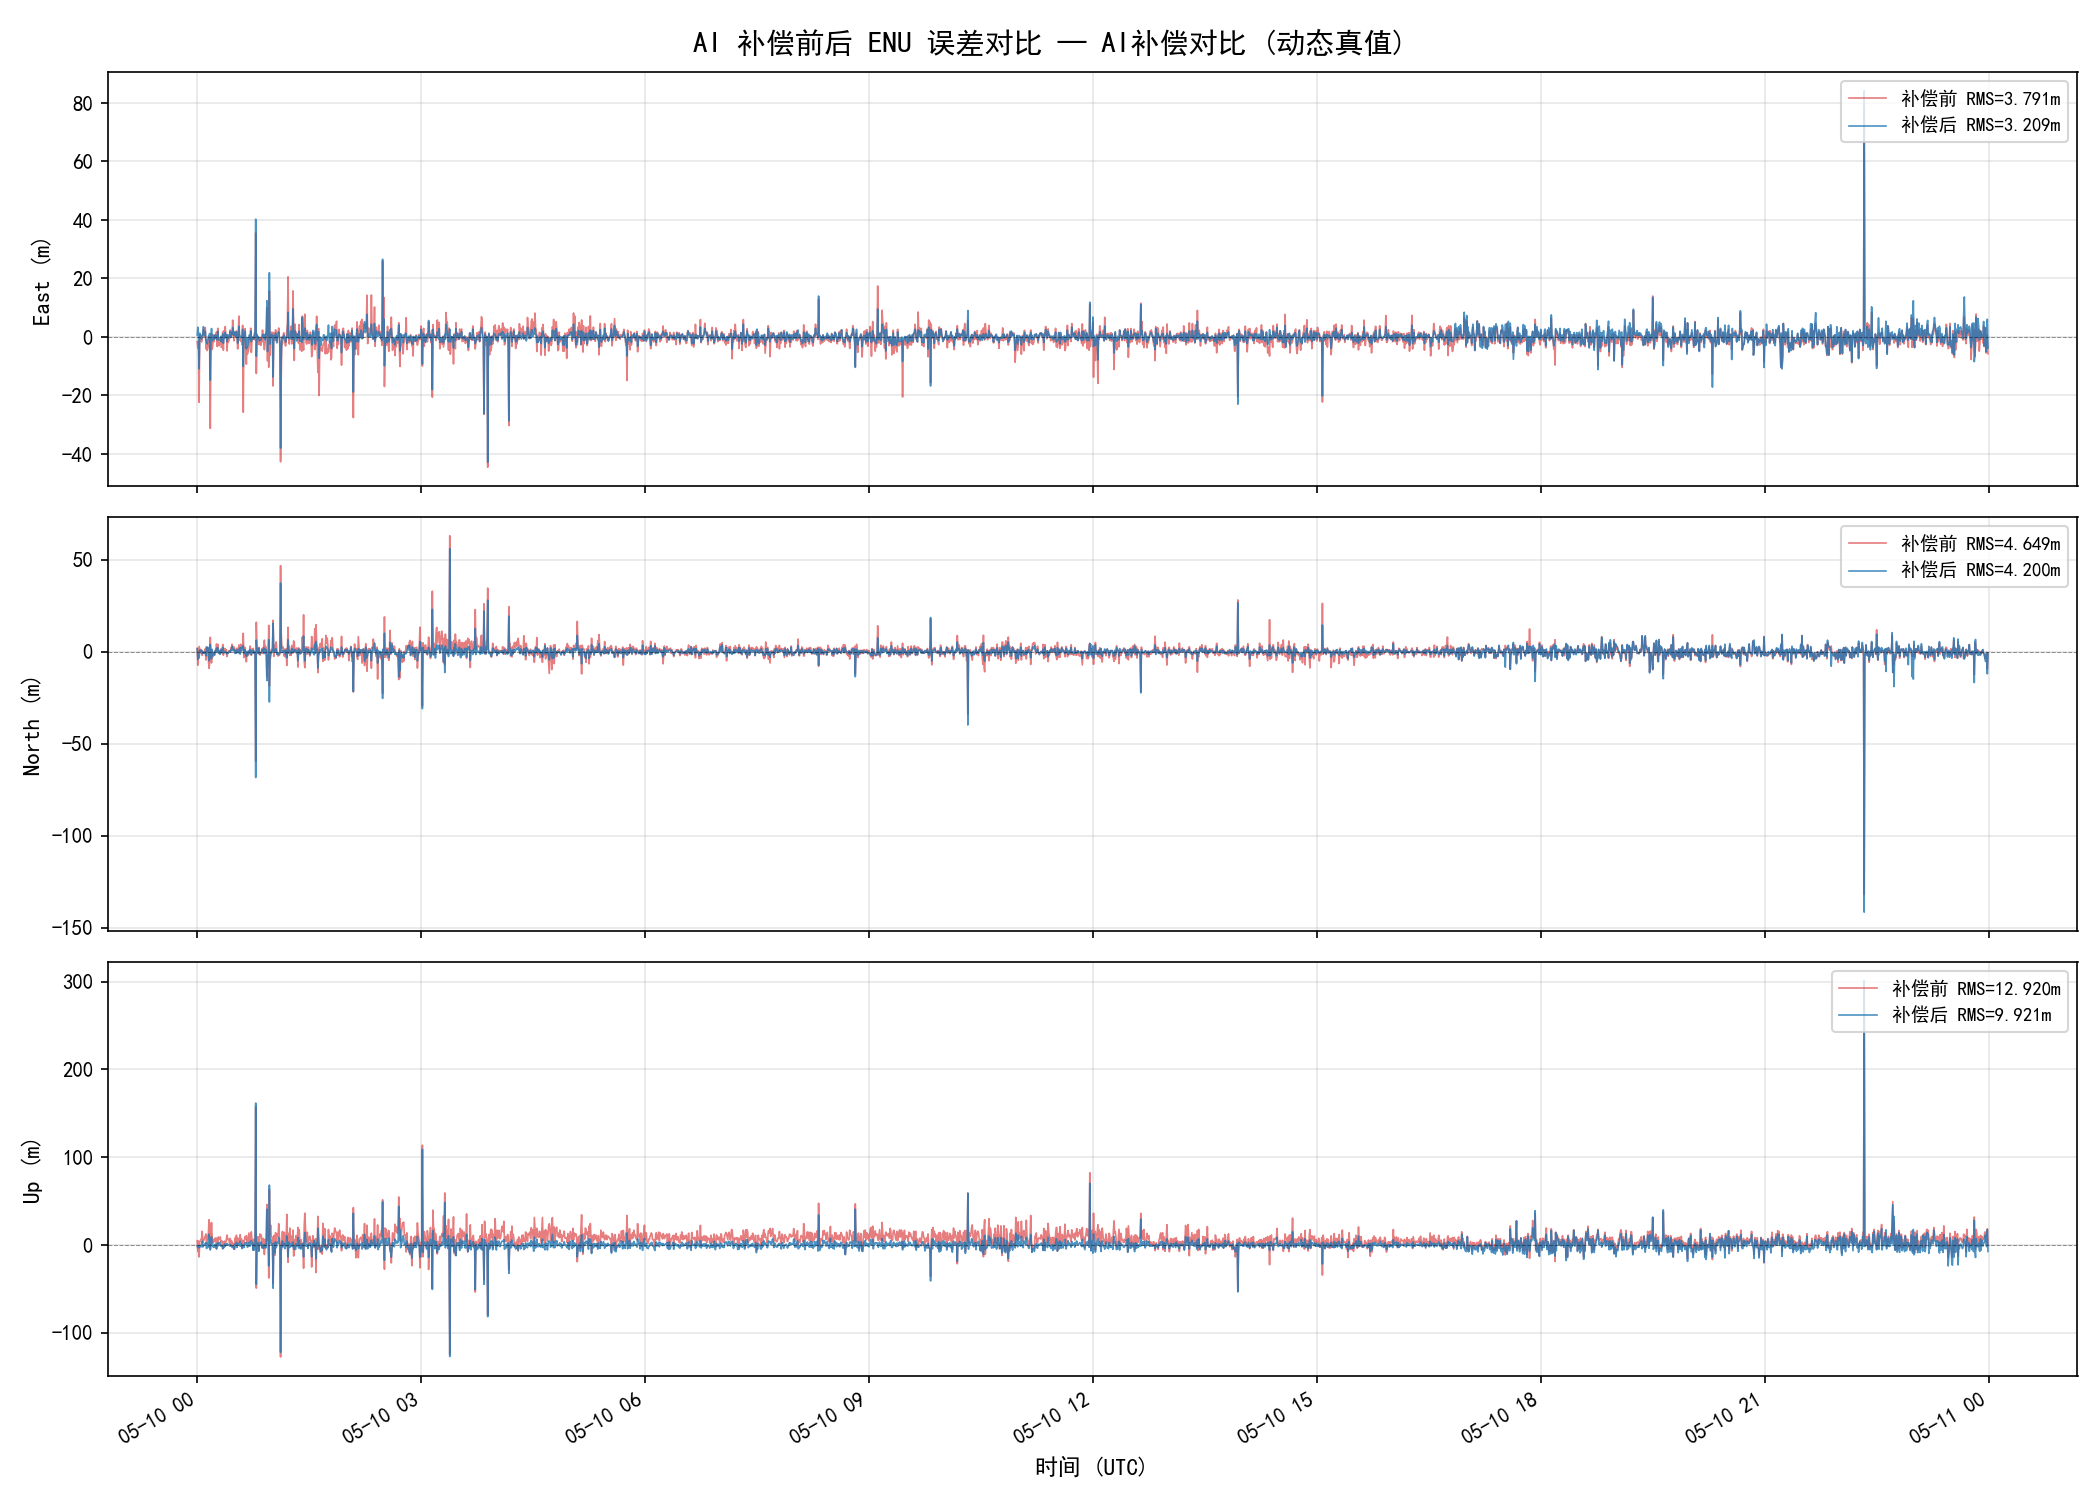
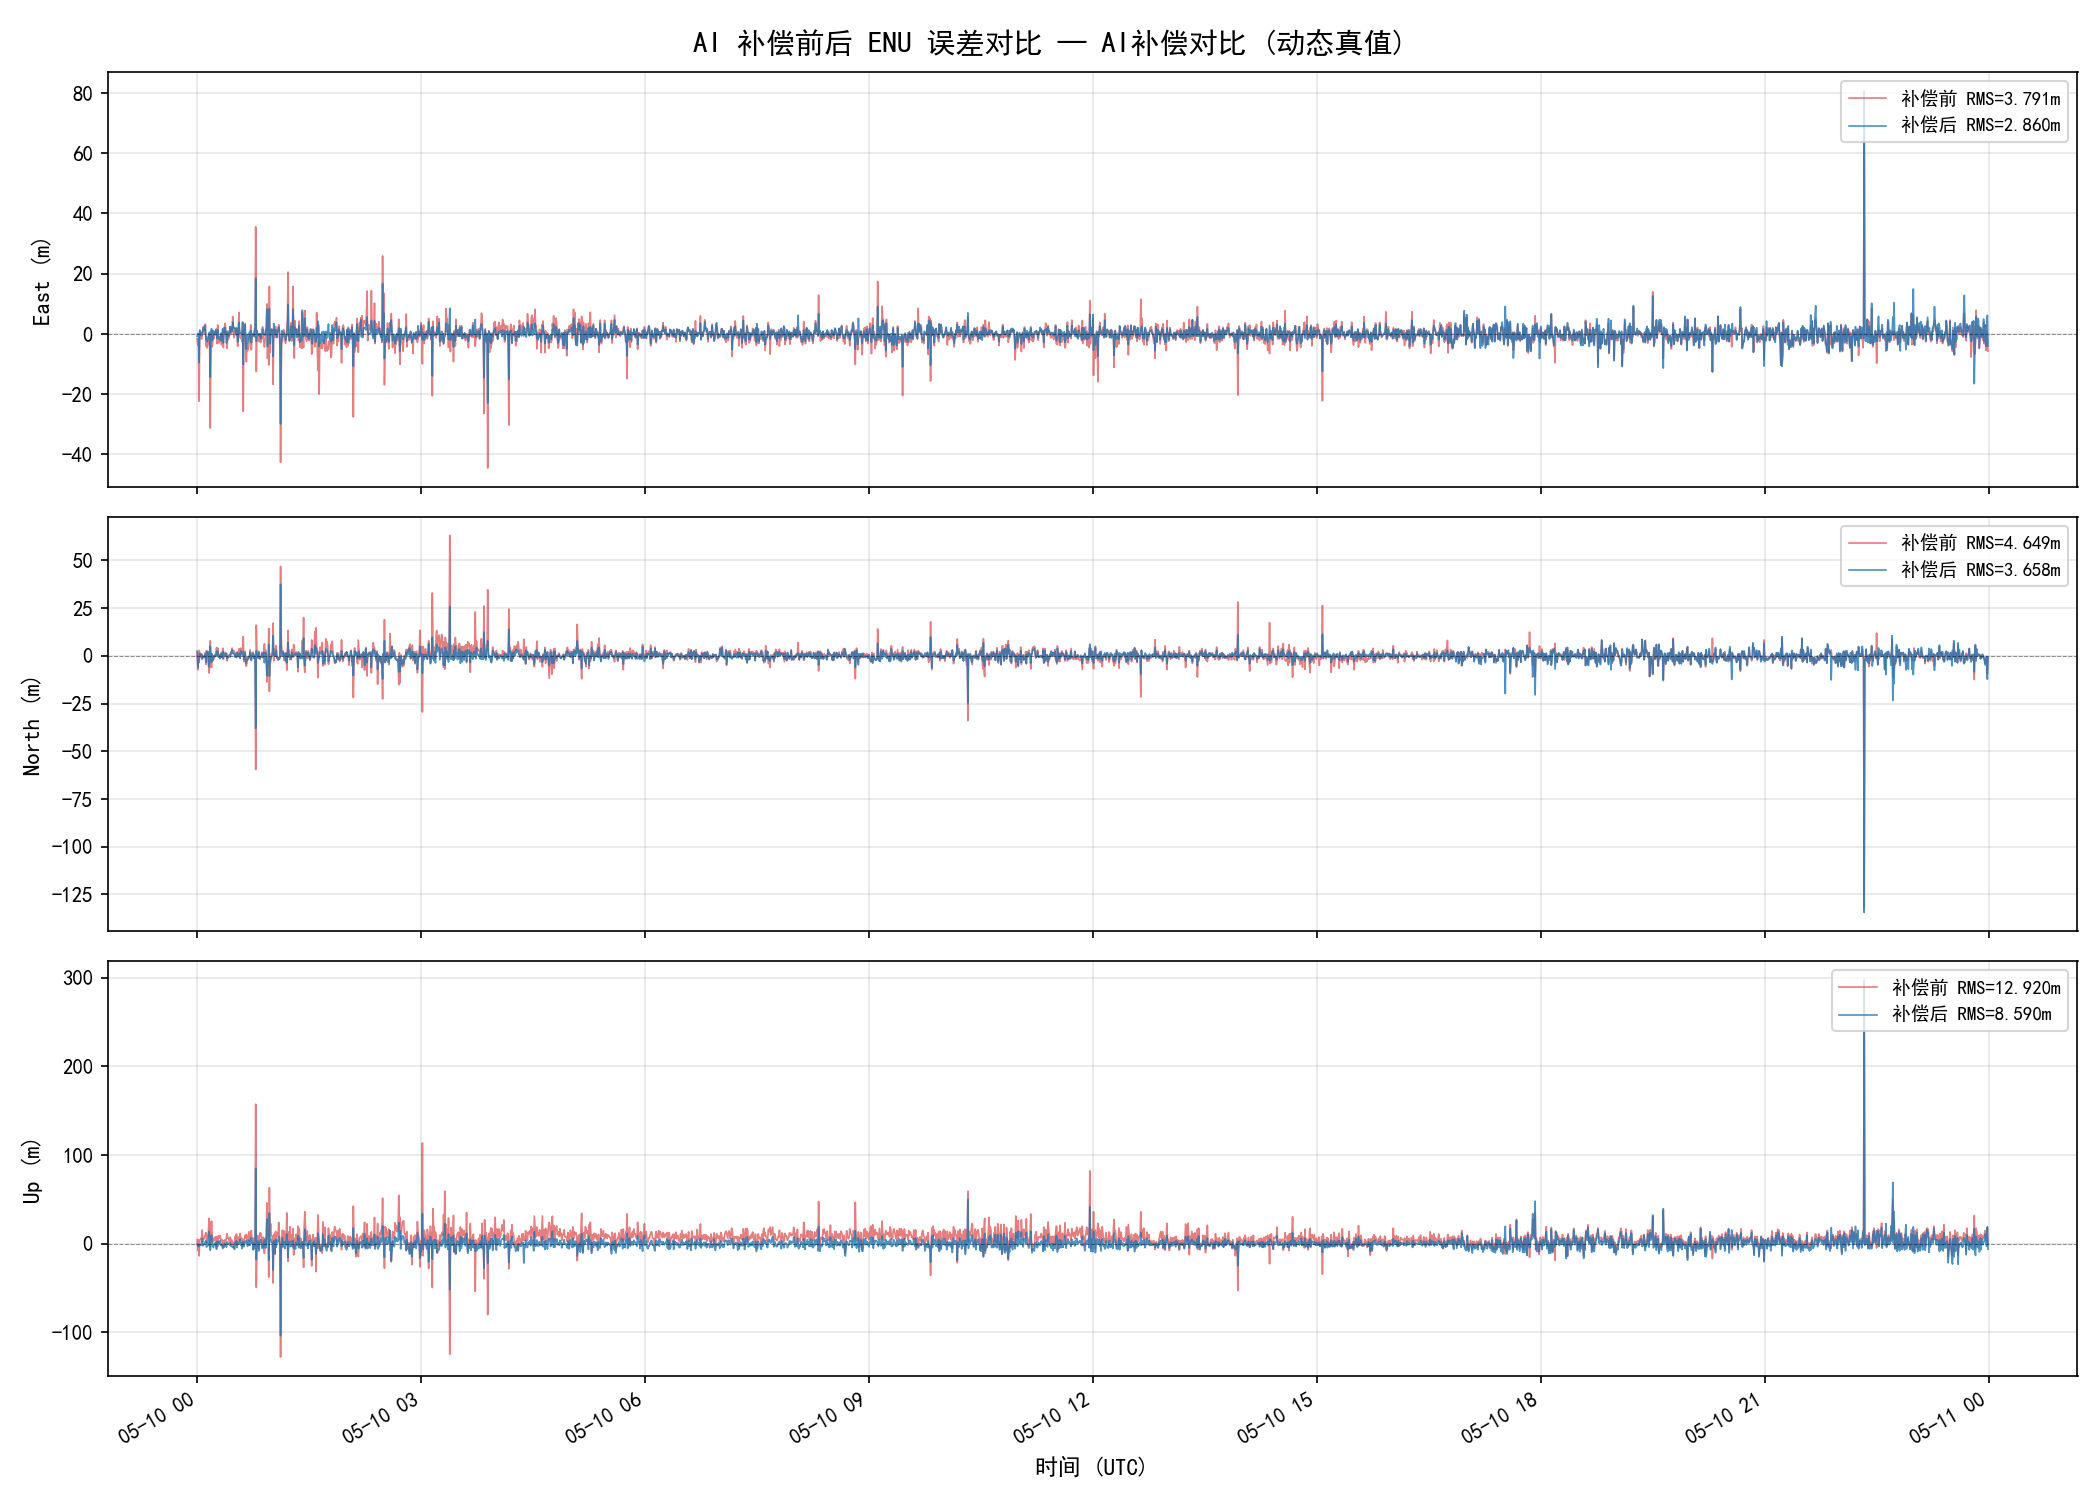
version_3.1

diff --git a/main_gui.py b/main_gui.py
@@ -961,11 +961,11 @@ class MainWindow(QMainWindow):
                 return
 
             # === 3σ 离群剔除 (可选, 大幅提升 AI 模型质量) ===
-            err_3d = np.sqrt((Y.values ** 2).sum(axis=1))
-            threshold = err_3d.mean() + 3 * err_3d.std()
-            mask = err_3d <= threshold
-            n_removed = (~mask).sum()
-            if n_removed > 0:
+            #err_3d = np.sqrt((Y.values ** 2).sum(axis=1))
+            #threshold = err_3d.mean() + 3 * err_3d.std()
+            #mask = err_3d <= threshold
+            #n_removed = (~mask).sum()
+            #if n_removed > 0:
                 self._log(f"  剔除 {n_removed} 个 3σ 离群历元 (阈值={threshold:.1f}m)")
                 X = X[mask].reset_index(drop=True)
                 Y = Y[mask].reset_index(drop=True)